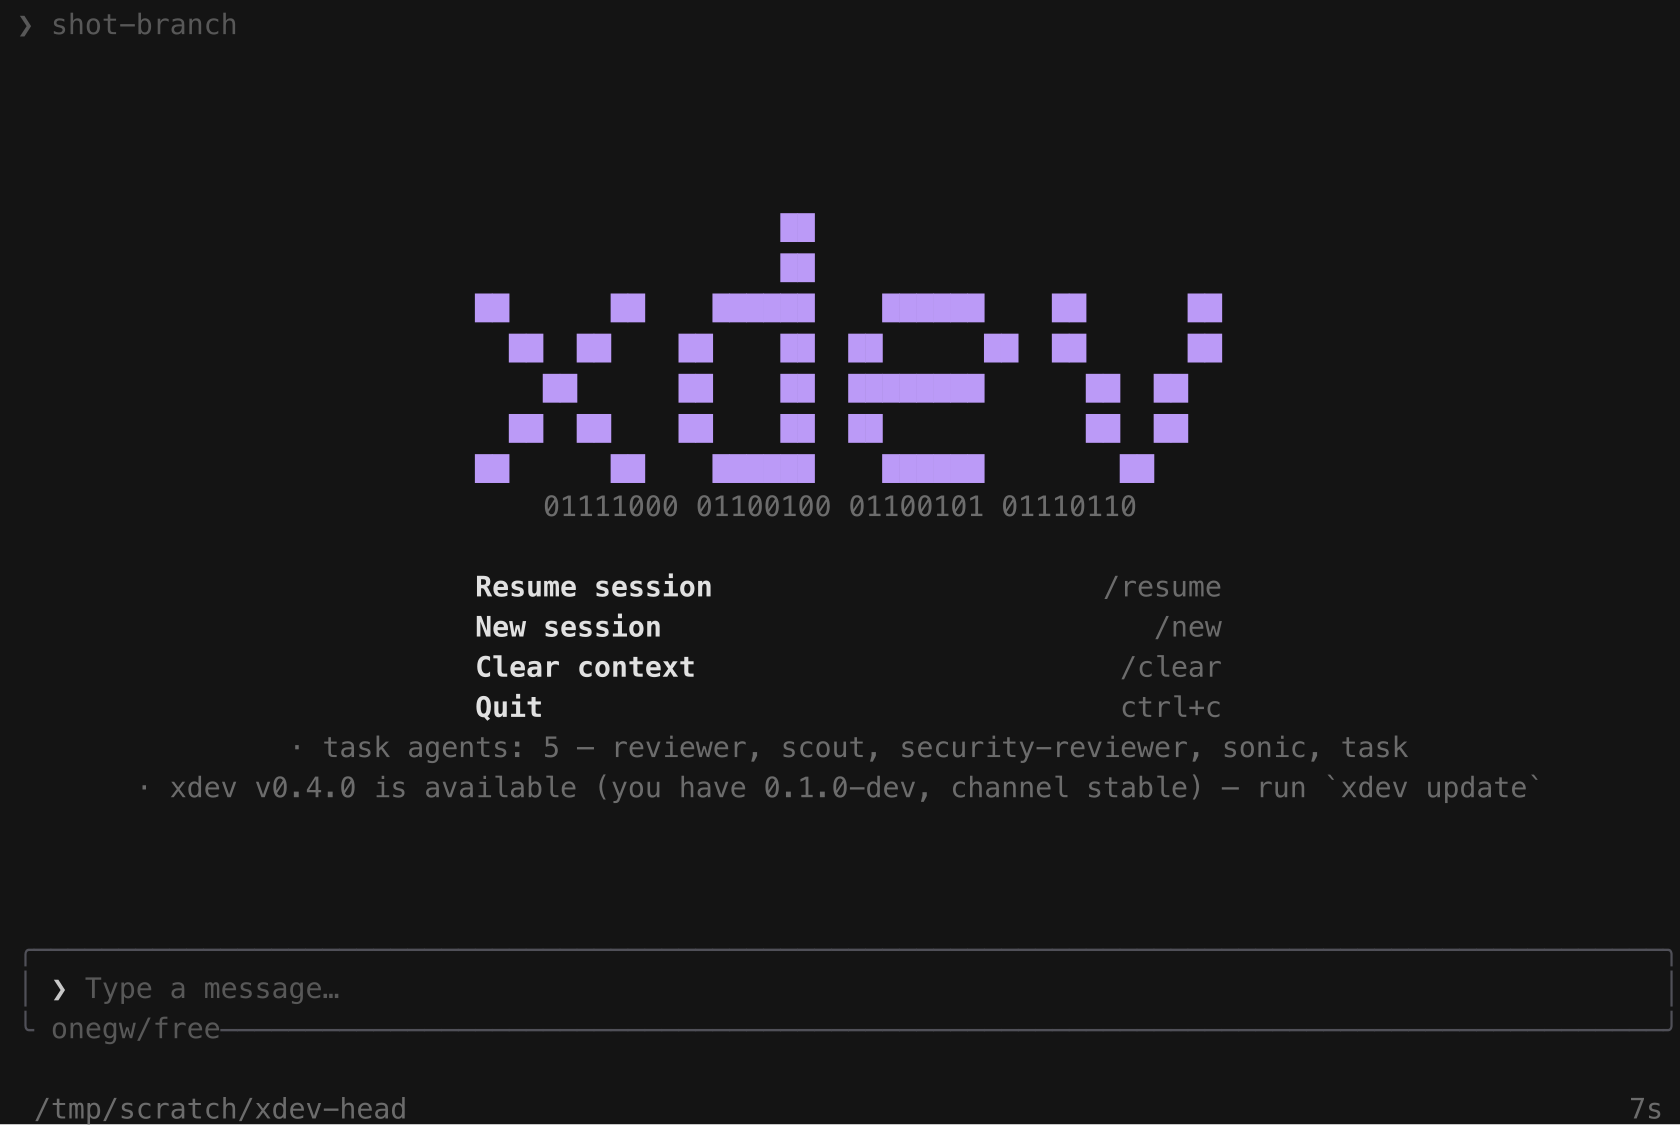
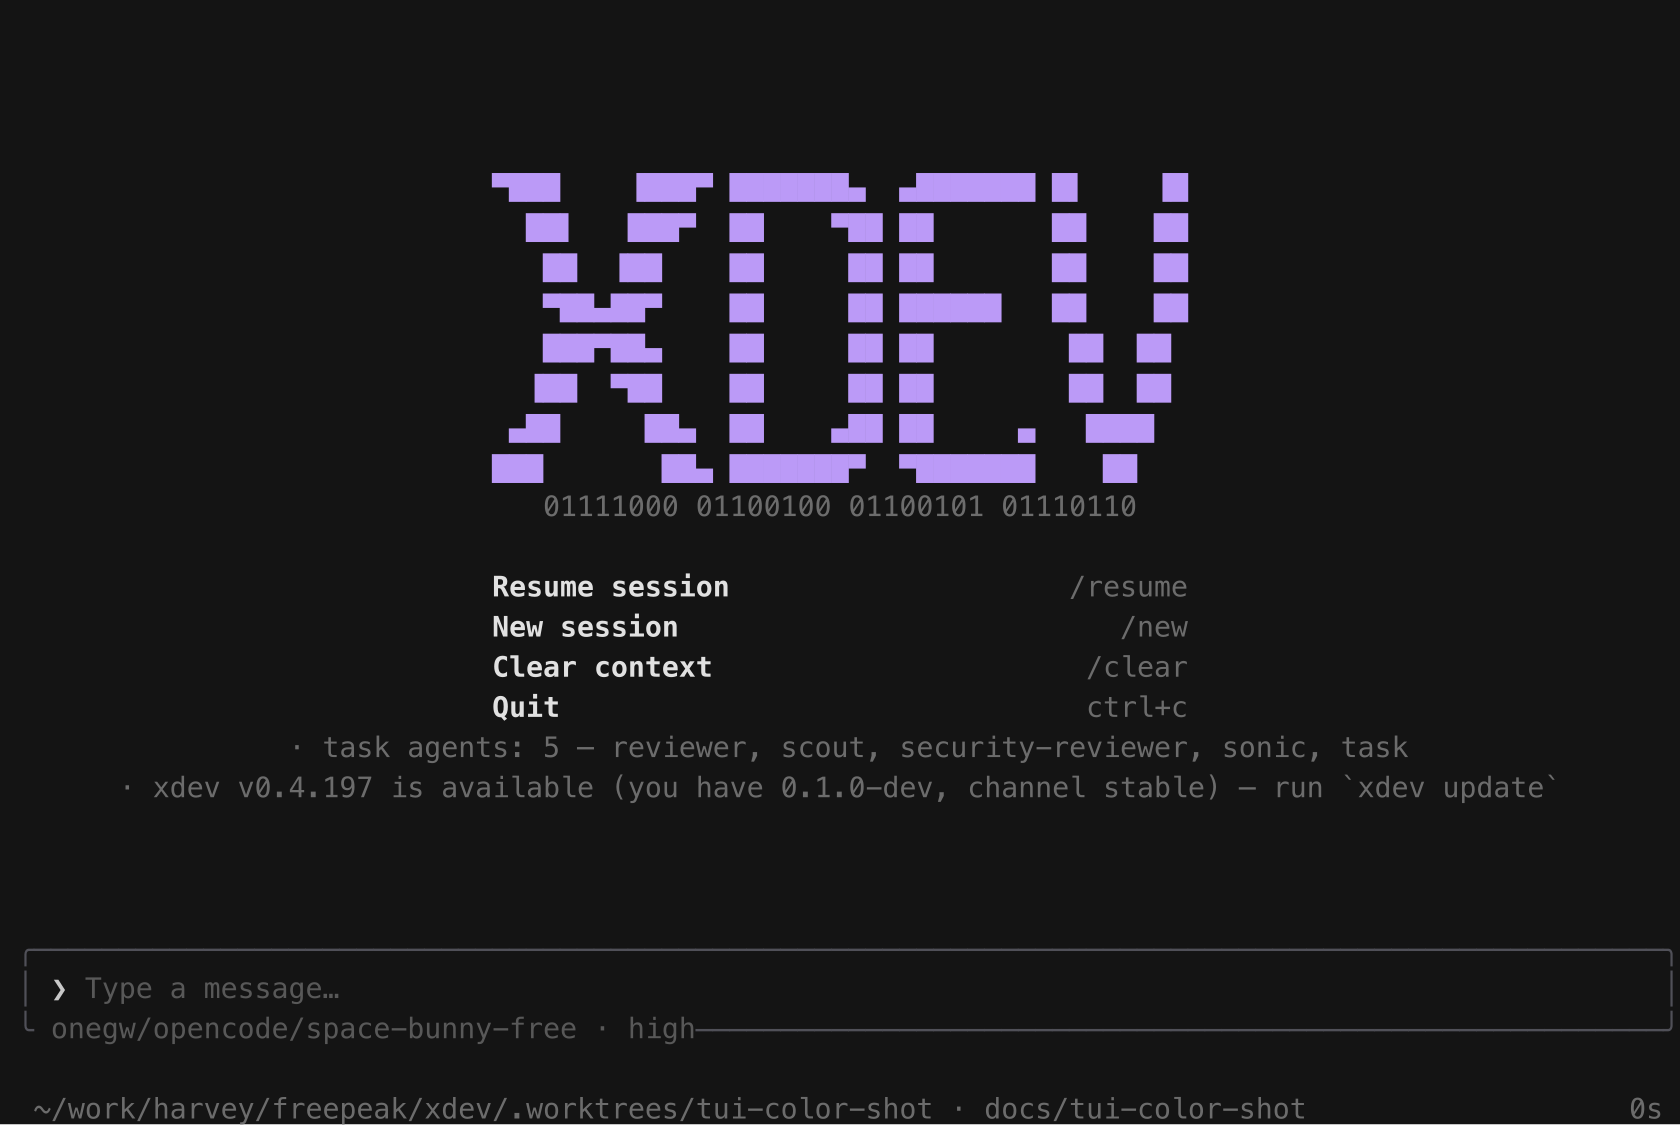
docs(readme): the welcome screenshot shows the no-top-bar TUI, not September's (#562)
The README's one image still carried the top bar that #558 removed the
same day it was captured (2026-09-16, 9b35b07), so the frame proved the
palette and proved a layout that no longer exists.

Regenerated by scripts/tui-shot.py against the built binary: real tmux
pane, real SGR runs, cell-accurate SVG. The palette is unchanged — the
same seven GrokNight slots — and the layout is the current one.

diff --git a/docs/PRD.md b/docs/PRD.md
@@ -2793,3 +2793,17 @@ Verified against the real binary, not the render functions: a forked pty with `p
 Tests: `internal/tui/chrome_test.go` `TestNoTopBarAndBranchOnTheStatusRow` (row 0 is transcript content; the branch sits on the status row after the path; a spinner frame leaks to neither row and belongs to the divider) and `TestStatusRowKeepsBranchAndTruncatesThePath` (a long path truncates around the branch; an over-wide branch leaves whole); `internal/tui/leaderkeys_test.go` `TestTranscriptTopAccountsForStrip` (0 without a strip, 1 with one); the toast, sticky, scroll-hint, selection and sidebar tests moved their row indices with the geometry.
 
 Supersedes: the 2026-09-15 "top bar is permanent, user-requested" entries and `TestTopBarCarriesBranchAndSpinner`, which pinned row 0 as chrome.
+
+---
+
+## Screenshot refreshed on the current colors (2026-10-03)
+
+*Last updated: 2026-10-03 (`docs/tui-color-shot` — user request: "create PR for me with the screenshot, new TUI color updated").* `assets/screenshots/welcome.png` — the one image the README embeds (`README.md:18`) — was still the frame captured on 2026-09-16 (`9b35b07`). It showed the top bar that **#558 removed the same day it retired**: the still carried ` ❯ branch` chrome, and the status row ended in the path with no branch beside it. Every color the shot proved was current; every layout it proved was two months stale.
+
+Regenerated with the repo's own generator, not a screen grab: `scripts/tui-shot.py` runs the built `./xdev tui` in a throwaway tmux session, asks tmux for the pane **with** its SGR runs (`capture-pane -p -e`), and repaints that cell grid as an SVG it rasterizes with `rsvg-convert`. Child started `env -u NO_COLOR COLORTERM=truecolor` because `NO_COLOR` flattens the theme to monochrome (§3.5). Width 1680 px to match the committed file's pixel dimensions so the README's `width="860"` keeps the same rendered size.
+
+**What actually changed in the image.** The top bar is gone and row 0 belongs to the transcript again; the status row now reads `~/work/harvey/freepeak/xdev/.worktrees/tui-color-shot · docs/tui-color-shot` with the branch on the row; the welcome menu lists the four session commands with their `/`-keyed hints; the composer carries the model caption in its bottom border. The **palette is unchanged** — the frame's distinct colors are the seven GrokNight slots it always was, verified by counting `fill=` in the regenerated SVG: `#6c6c6c` ×259, `#505058` ×159, `#bb9af7` ×158, `#585858` ×49, `#e1e1e1` ×39, `#c8c8c8`, `#141414`. `#bb9af7` is `accent_assistant` (TokyoNight MAGENTA, §3.5) and `#141414` is `bg_base` — the same two the September shot carried.
+
+Method note for the next regeneration: `sheen_score` returns 0 only when the wordmark's sheen sweep is off the art, so a shot with a nonzero cost catches the mark half-inverted and unreadable. This run hit 0 on the second sampled frame.
+
+No `internal/` file touched; this is the image, not the renderer.
